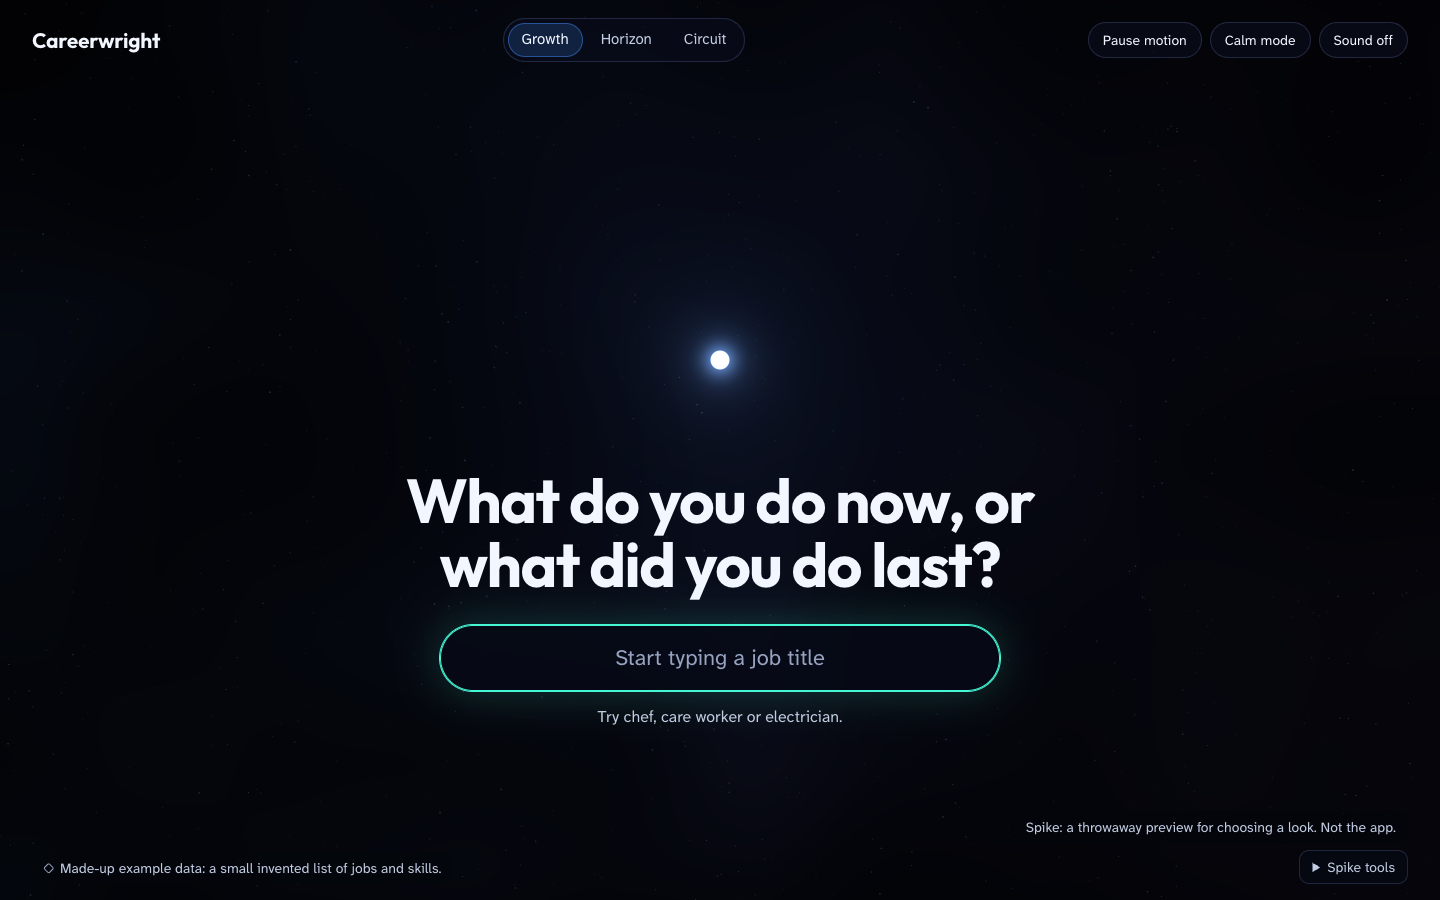
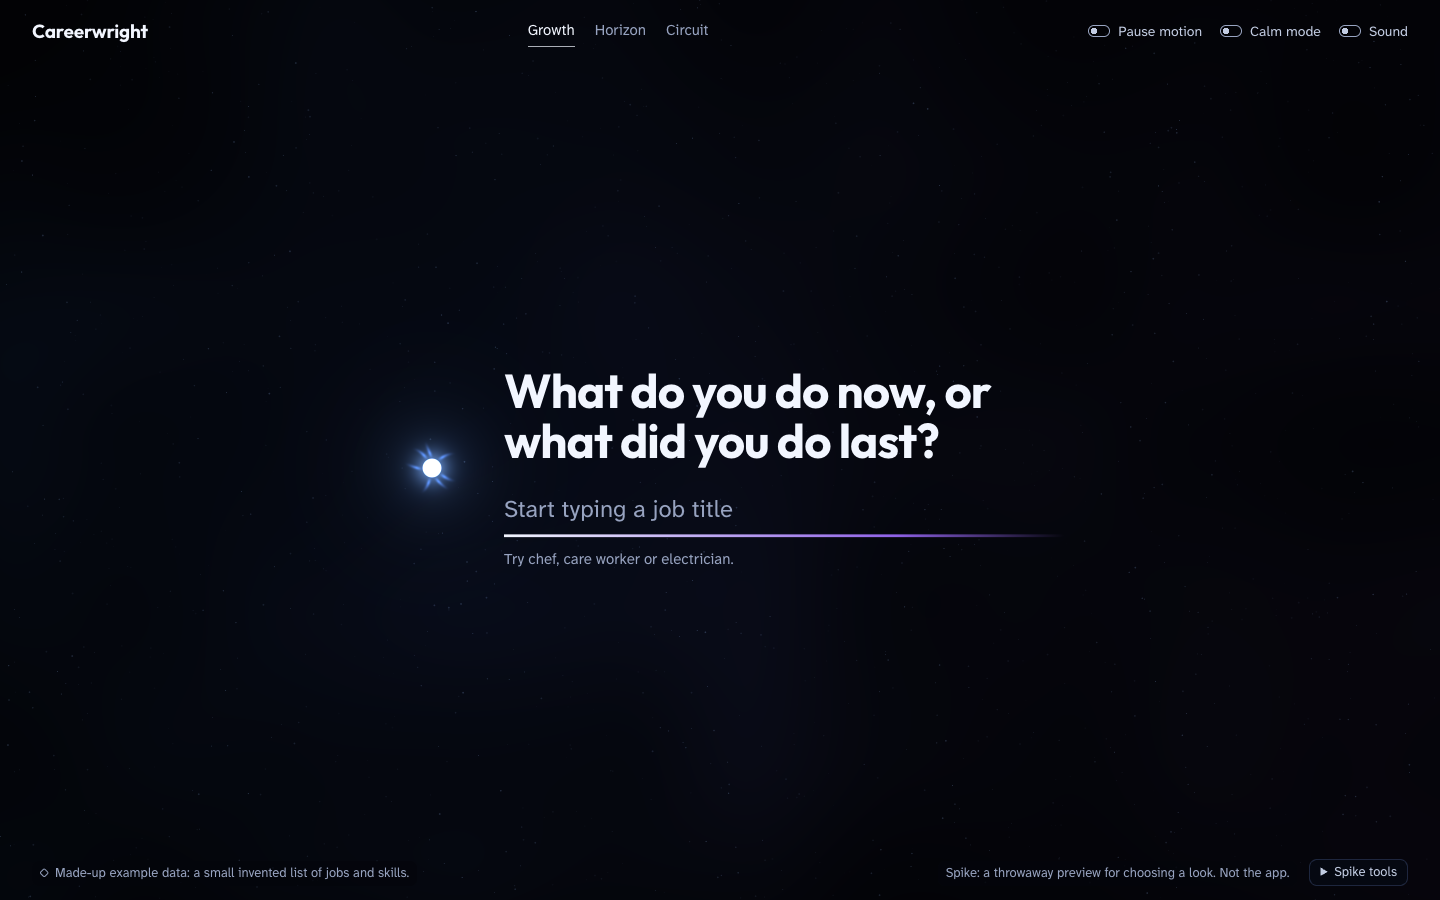
Update session W1's package for fix round 1: Chrome up front, every sound named
The guide says Chrome opens (and why), adds pointing at the orange lights, names all three
sounds (the swell, the chime and the skill tick), and keeps lettering as its own question now
that all three looks share one face. Screenshots retaken.

diff --git a/docs/reviews/session-w1.md b/docs/reviews/session-w1.md
@@ -1,7 +1,7 @@
 # Session W1: choose how the world looks (about 1 hour)
 
-You try three looks for Careerwright's world. Then you say which one you would choose, or which
-mix, in your own words.
+You try three looks for Careerwright's world in Google Chrome. Then you say which one you would
+choose, or which mix, in your own words.
 
 Everything you see is made up: a small invented list of jobs and skills. It is a throwaway
 preview, not the app. Nothing you do can break anything.
@@ -20,35 +20,42 @@ preview, not the app. Nothing you do can break anything.
 
 1. Open Terminal in the `careerpathoptimizer` folder.
 2. Type `make spike-world` and press Enter.
-3. Your browser opens on a page with three looks: Growth, Horizon and Circuit.
-   If it doesn't open, paste `http://127.0.0.1:53300` into Chrome.
+3. Google Chrome opens on a page with three looks: Growth, Horizon and Circuit.
+   It opens Chrome even if you normally use Safari, because everything was checked in Chrome.
+   If it doesn't open, open Google Chrome yourself and go to `http://127.0.0.1:53300`.
 4. When you're done, press Ctrl-C in Terminal to stop it.
 
 ---
 
 ## Part 2: try each look (2 min each)
 
-The three looks ask the same question and find the same thing. Only the look changes.
+The three looks ask the same question and find the same thing. Only the world changes. They
+all use the same lettering, so you're comparing worlds, not lettering.
 
 - **Growth:** a living network of roots and nerves, grown from you.
 - **Horizon:** a journey across a dark plain, towards lights on the horizon.
-- **Circuit:** a precise, glowing circuit with exact readouts.
+- **Circuit:** a living circuit: exact, glowing, powered by you.
 
 In each one, do this:
 
-1. Type a job you've done, like "chef". Pick it from the list.
+1. Type a job you've done, like "chef". Watch your light answer as you type. Pick it from the list.
 2. Watch for ten seconds. Don't click.
    Your light comes on, and a few seconds later something new lights up.
 3. Read the card on the right. Click **Why?**
-4. Click two skills you've used. Watch what changes.
-5. Click the bright button, **Keep … in view**. Then click **Undo**.
-6. Click **Calm mode**. It's the same world, standing still. Click it again to go back.
+4. Point at a few of the orange lights (or press Tab to reach them).
+   Each one shows the skills it shares with your job.
+5. Click two skills you've used. Watch what changes.
+6. Click the bright button, **Keep … in view**. Then click **Undo**.
+7. Turn on **Calm mode**. It's the same world, standing still. Turn it off again.
 
 Then play as long as you like:
 
 - Click **Start again** and try another job: care worker, electrician, bus driver, data analyst.
-- Turn **Sound on**, then start again to hear it. Sound is off unless you turn it on.
-- Switch looks with the buttons at the top. Your answer isn't kept when you switch.
+- Turn on **Sound**, then start again. You'll hear a low swell when your light comes on, a rising
+  chime when the new connection lights up, and a small tick when you pick a skill. Sound is off
+  unless you turn it on.
+- To try other lettering, open **Spike tools** (bottom right) and pick a heading typeface.
+- Switch looks with the names at the top. Your answer isn't kept when you switch.
 
 If you'd like to compare them side by side, there are pictures of each look in
 `docs/reviews/session-w1/`: the question, the discovery, and the same moment standing still.
@@ -62,8 +69,8 @@ If you'd like to compare them side by side, there are pictures of each look in
 | 1 | Which look would you choose, or which mix? Say it in your own words. | |
 | 2 | In the first ten seconds of each look, what did you feel? | |
 | 3 | Did anything confuse you, or seem to promise more than it should (for example, look like a job offer)? | |
-| 4 | Do you want sound? (yes, no, or later) | |
-| 5 | The heading lettering: we suggest the first one in `docs/reviews/session-w1/4-typefaces.png`. Happy with that? | |
+| 4 | Do you want sound? There are three sounds: the swell when your light comes on, the chime when the connection lights up, and the tick when you pick a skill. (yes, no, only some of them, or later) | |
+| 5 | The heading lettering: all three looks use the first one in `docs/reviews/session-w1/4-typefaces.png`. Keep it, or would you rather one of the others? | |
 | 6 | Anything else you want changed before we build it for real? | |
 
 After you choose, we build your choice into the app, starting with the first screen. You review
@@ -72,6 +79,7 @@ that at the next session.
 ---
 
 <sub>What the builder checked, so you don't have to (these are not design scores; only you
-score): in all three looks the words are the same with motion on and off; the preview makes no
-connection beyond your own computer; and it runs smoothly on this Mac, with no dropped frames at
-its busiest. Details are in `spikes/world/README.md`.</sub>
+score): in all three looks the words are the same with motion on and off, and stay on screen
+when you turn Calm mode on and off; the preview makes no connection beyond your own computer;
+and it runs smoothly on this Mac, with no dropped frames at its busiest. Details are in
+`spikes/world/README.md`.</sub>
